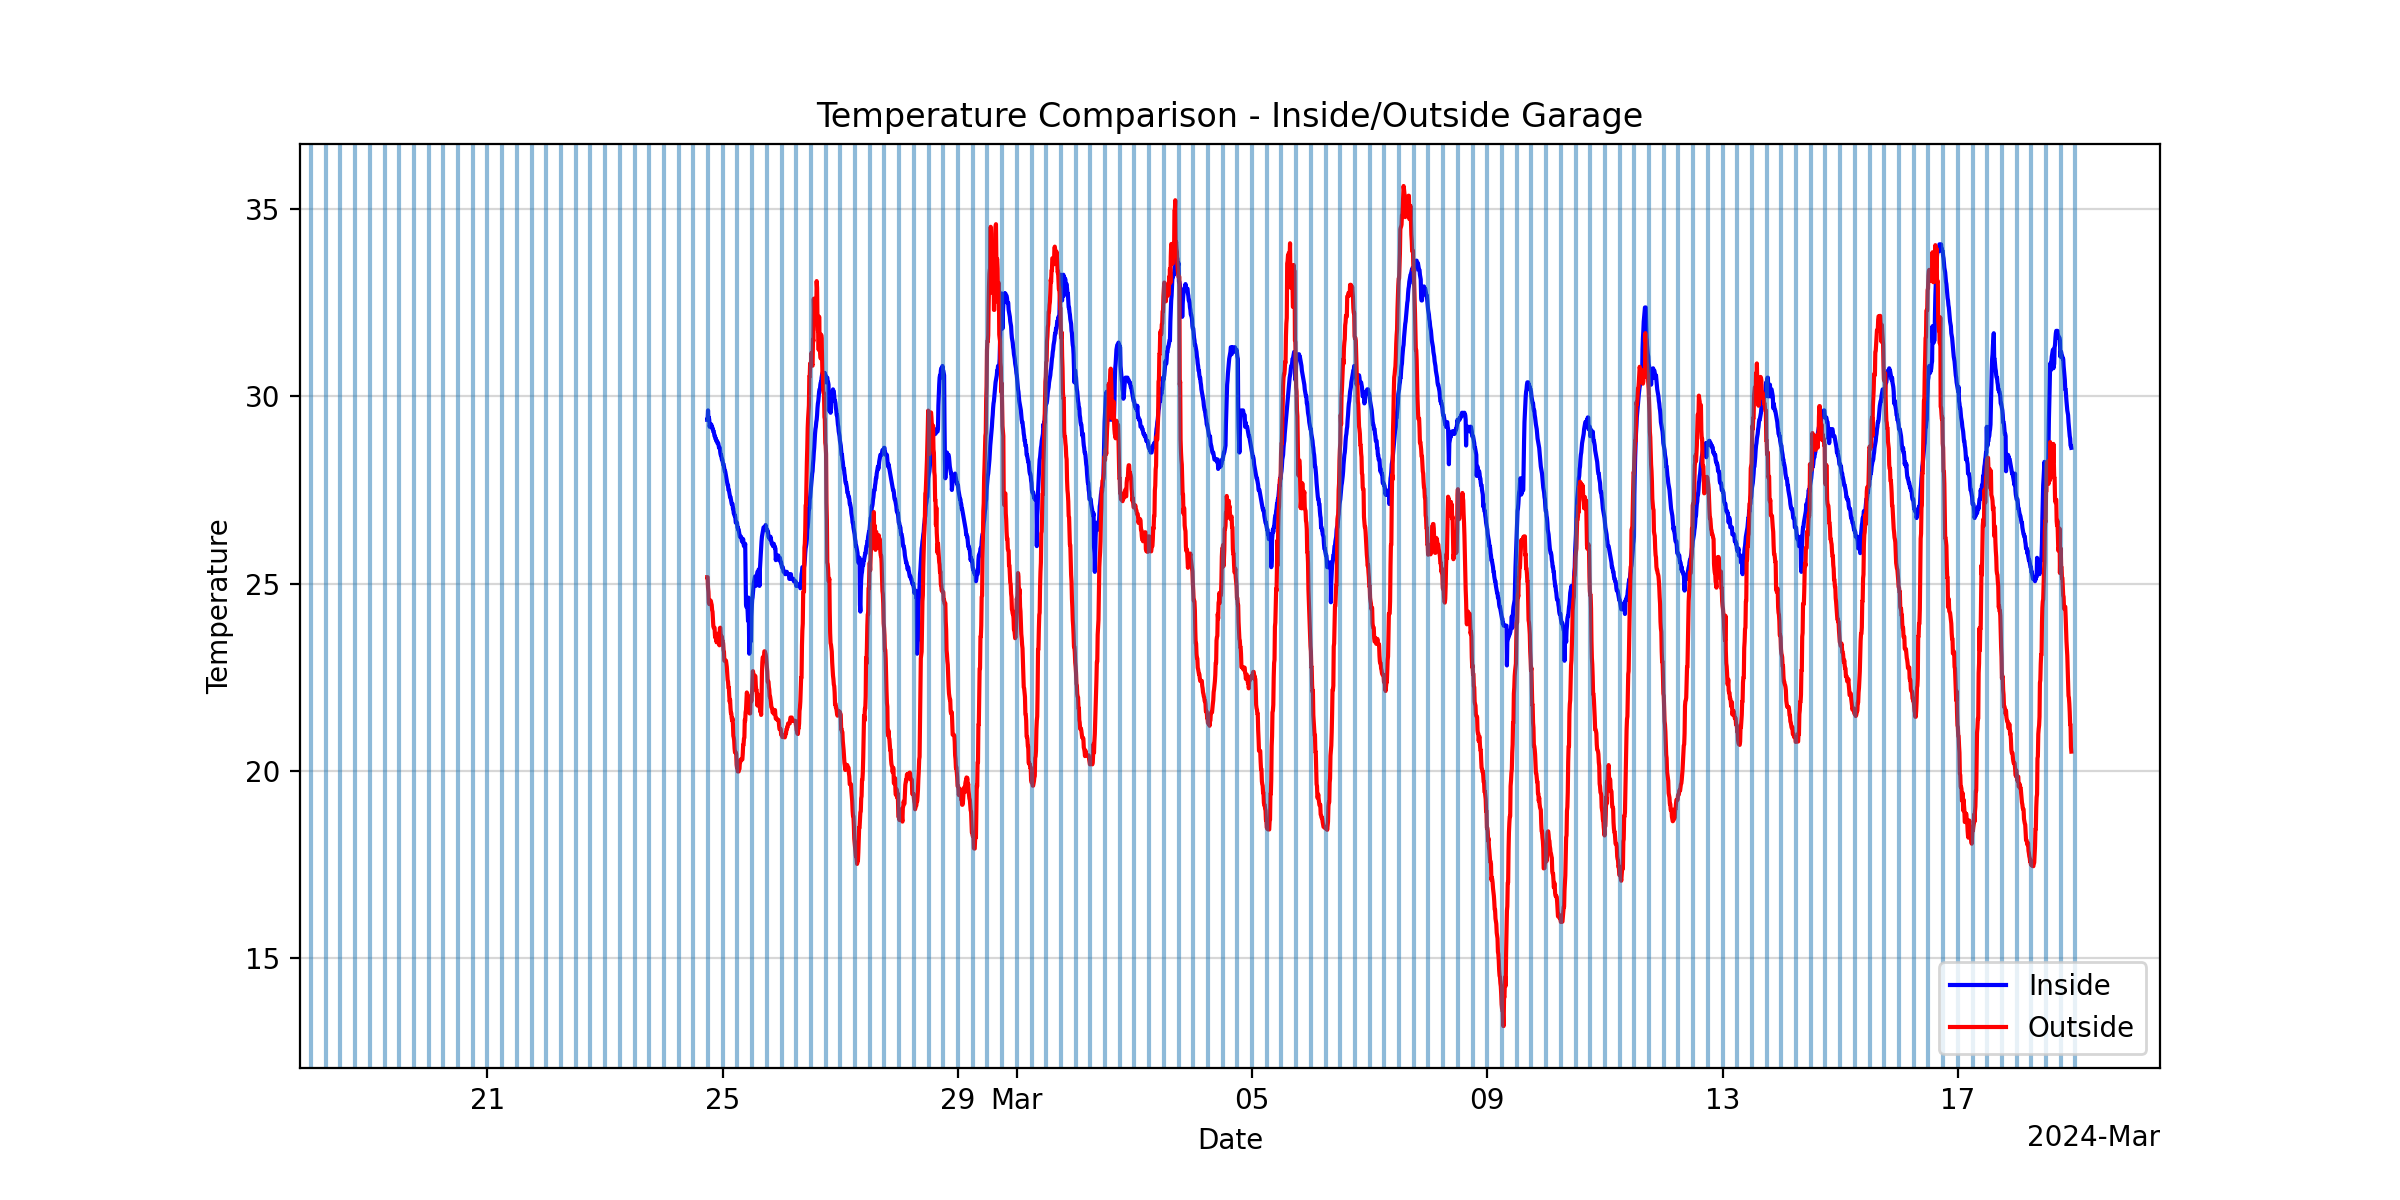
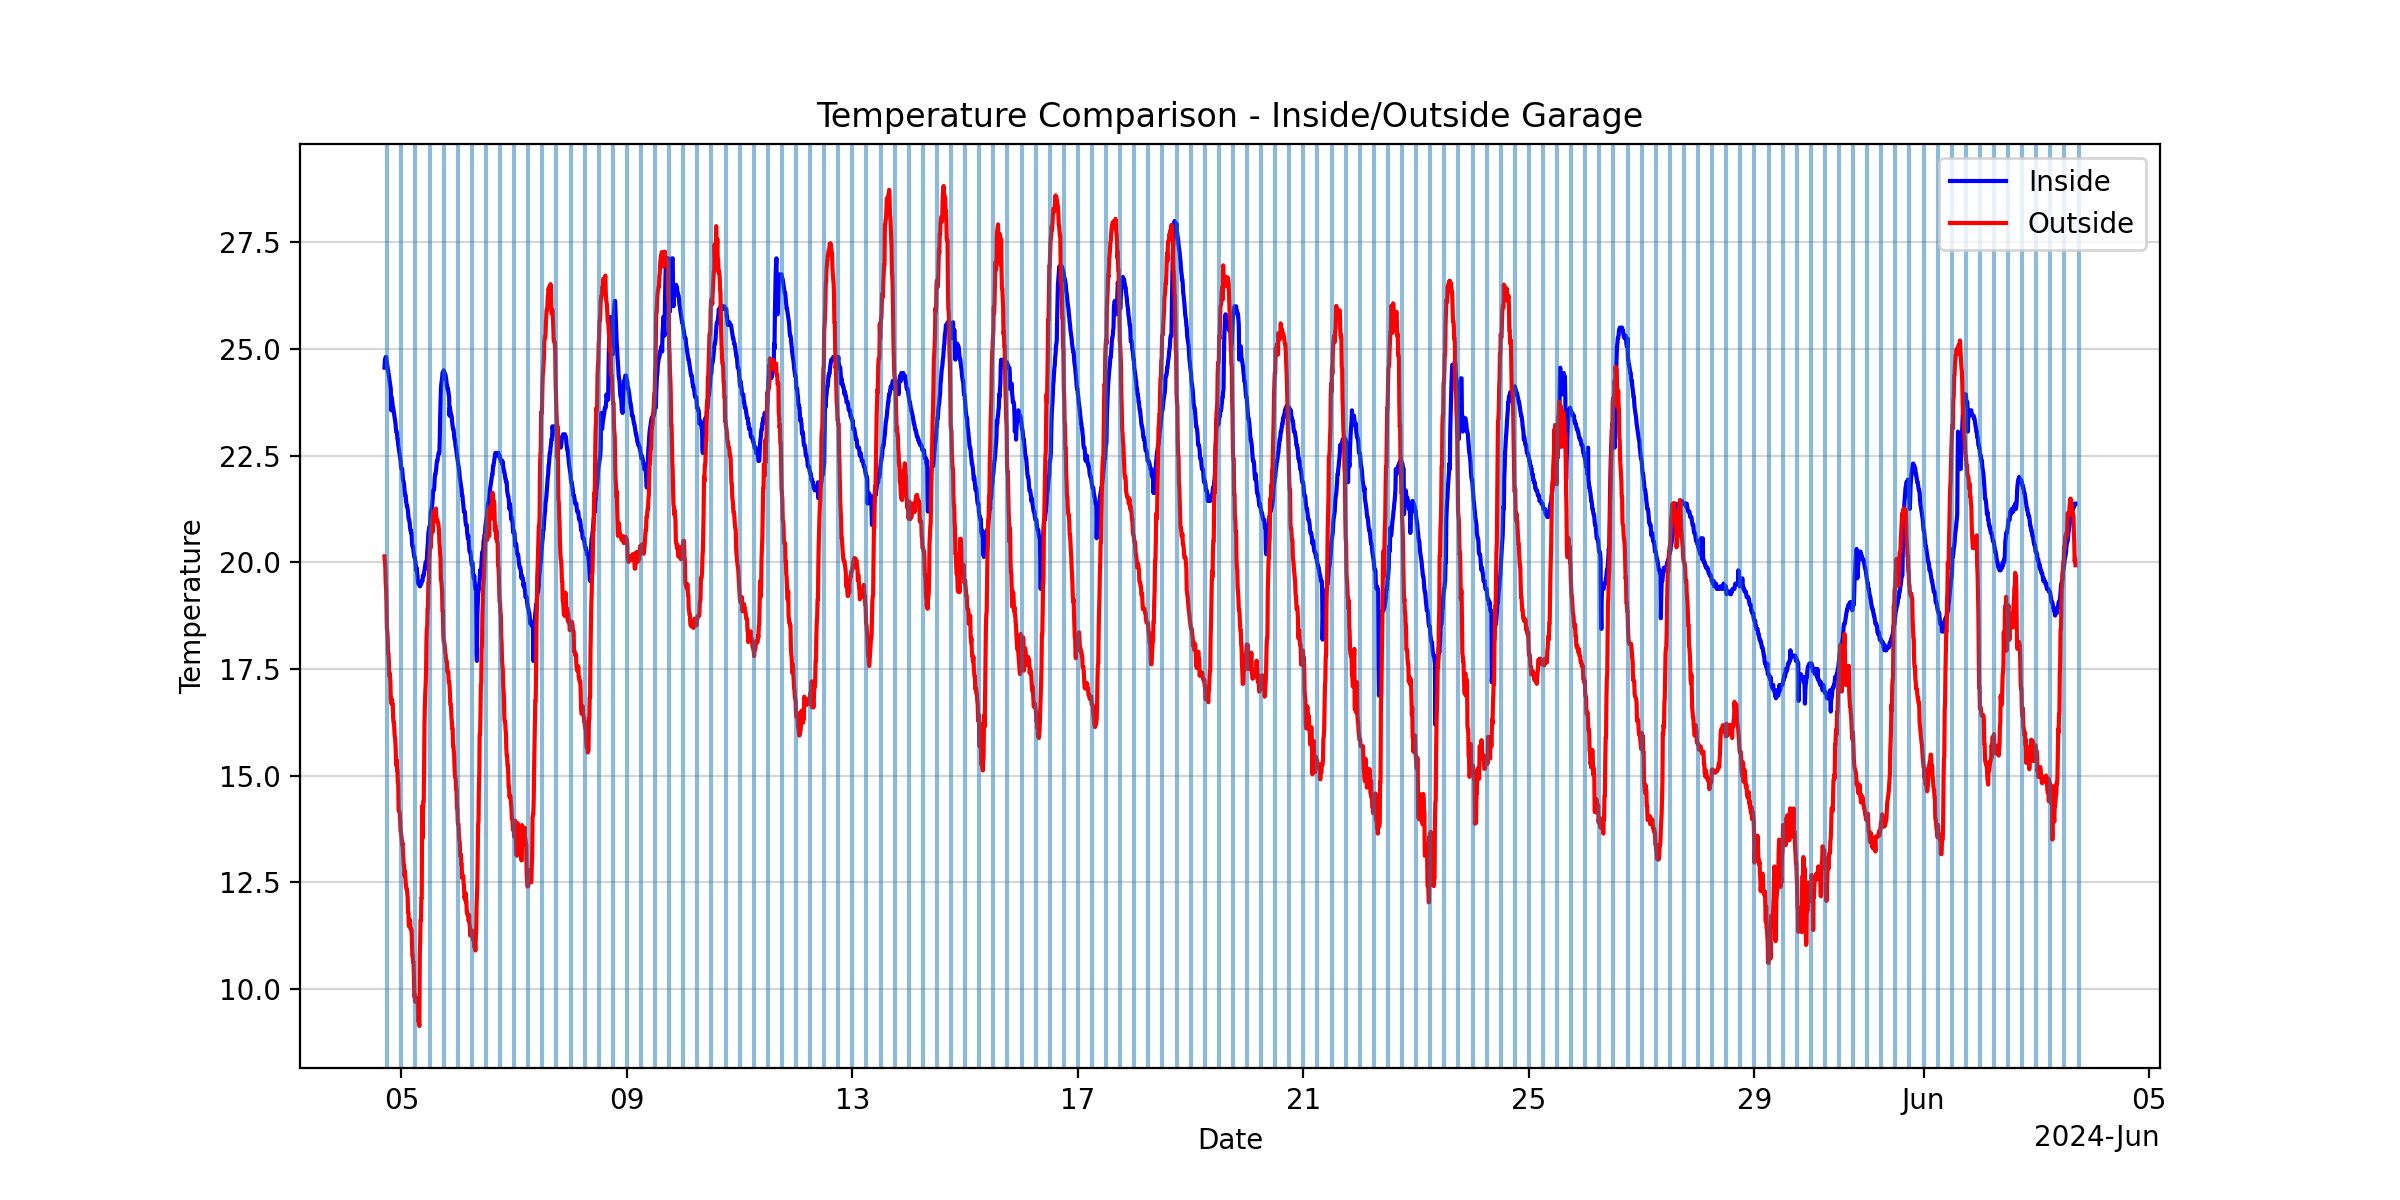
update daily image and minor text edit

Changed region(s): [[0.0625, 0.1233, 0.9062, 0.925], [0.8438, 0.8942, 0.9062, 0.9558]]

diff --git a/myproj.html b/myproj.html
@@ -43,9 +43,9 @@
         <ul>
           <li>Data colected in the garage on a Raspberry Pi Zero 2 with external temperature sensor</li>
           <li>Using a cronjob every 10 minutes to capture room temp, CPU temp and time as well as scrape the local Perth weather off the web</li>
-          <li>Currently that data is then captured manually when I remember to tun a script on the PC to download the data to date</li>
+          <li>Currently that data is then captured manually when I remember to run a script on the PC to download the data to date</li>
           <li>Phase II - will involve linking the below charts to a web-hosted DB, so the user can change the from/to dates</li>
-          <li>Phase III - will involve updating the said DB with automatically data transfer from the RPI to the remote DB</li>
+          <li>Phase III - will involve updating the said DB with automatic data transfer from the RPI to the remote DB.  Need to investigate MQTT ??</li>
         </ul>
       </section>
 
